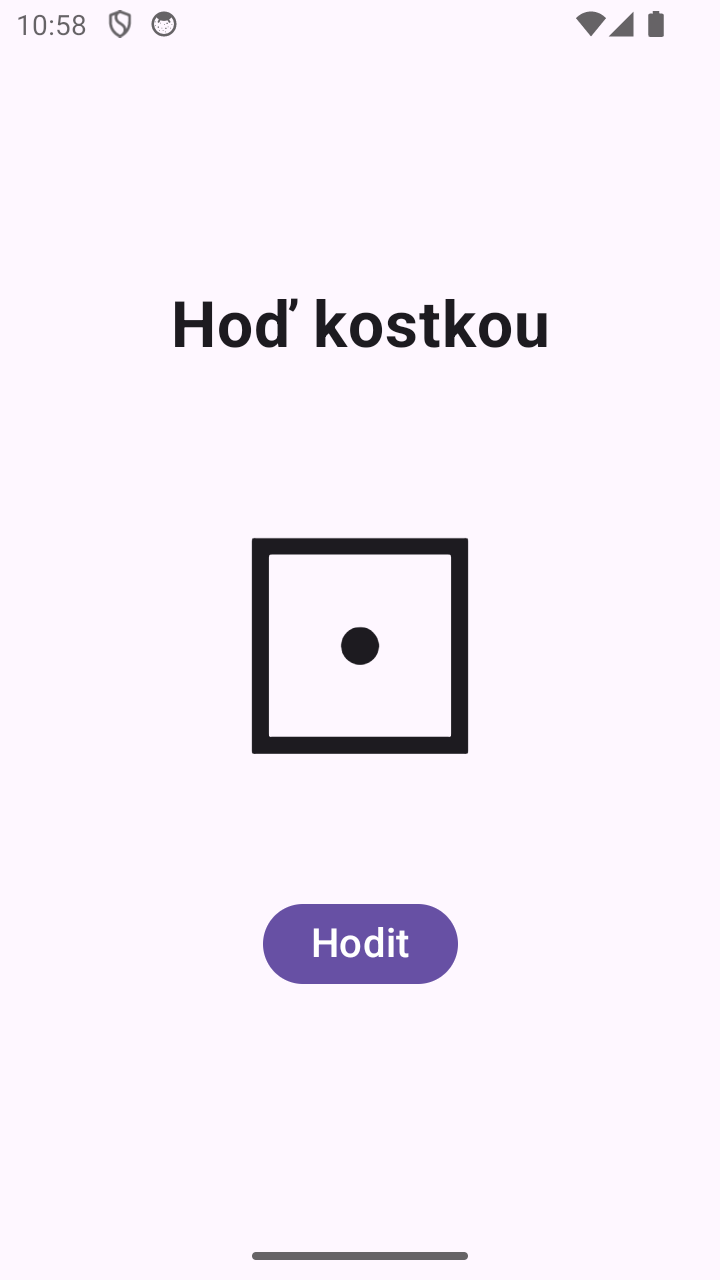
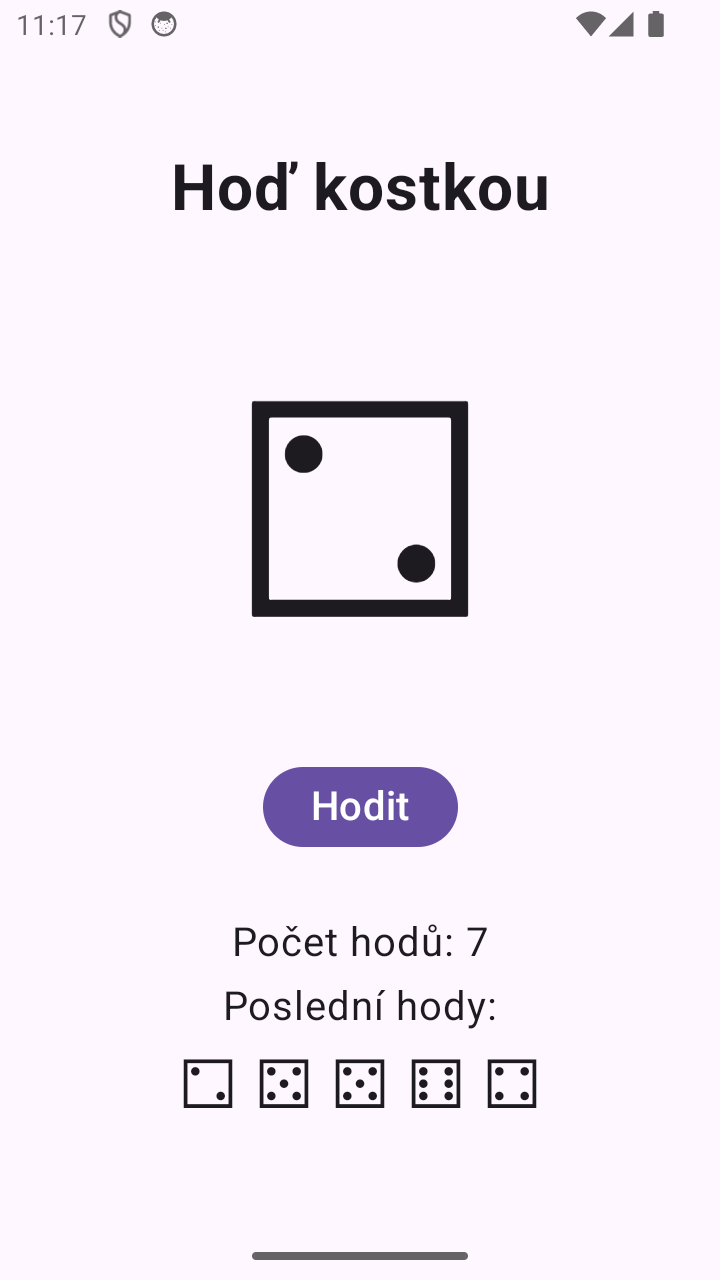
feature: addition of roll counter and history

diff --git a/MyApp003Compose/app/src/main/java/com/example/myapp003compose/MainActivity.kt b/MyApp003Compose/app/src/main/java/com/example/myapp003compose/MainActivity.kt
@@ -14,6 +14,7 @@ import androidx.compose.material3.Scaffold
 import androidx.compose.material3.Text
 import androidx.compose.runtime.Composable
 import androidx.compose.runtime.getValue
+import androidx.compose.runtime.mutableIntStateOf
 import androidx.compose.runtime.mutableStateOf
 import androidx.compose.runtime.remember
 import androidx.compose.runtime.rememberCoroutineScope
@@ -28,12 +29,15 @@ import androidx.compose.ui.unit.sp
 import kotlinx.coroutines.delay
 import kotlinx.coroutines.launch
 
-// Unicode symboly pro hodnoty kostky 1–6
+// Unicode symboly pro hodnoty kostky 1-6
 private val diceSymbols = listOf("⚀", "⚁", "⚂", "⚃", "⚄", "⚅")
 
 // Počet náhodných změn během animace a prodleva mezi nimi
 private const val ANIMATION_STEPS = 10
 private const val STEP_DELAY_MS = 250L
+
+// Kolik posledních hodů se ukazuje
+private const val HISTORY_SIZE = 5
 
 class MainActivity : ComponentActivity() {
     override fun onCreate(savedInstanceState: Bundle?) {
@@ -58,6 +62,10 @@ fun DiceScreen(modifier: Modifier = Modifier) {
     // Při změně stavu Compose obrazovku sám překreslí.
     var dice by remember { mutableStateOf(diceSymbols.first()) }
     var isRolling by remember { mutableStateOf(false) }
+
+    // Počet hodů a posledních pár výsledků (nejnovější první)
+    var rollCount by remember { mutableIntStateOf(0) }
+    var history by remember { mutableStateOf(listOf<String>()) }
     val scope = rememberCoroutineScope()
 
     // Prvky pod sebou, vystředěné na obrazovce
@@ -92,12 +100,35 @@ fun DiceScreen(modifier: Modifier = Modifier) {
                         delay(STEP_DELAY_MS)
                     }
                     dice = diceSymbols.random()
+
+                    // Výsledek se přičte a přidá na začátek historie
+                    rollCount++
+                    history = (listOf(dice) + history).take(HISTORY_SIZE)
+
                     isRolling = false
                 }
             }
         ) {
             Text(text = stringResource(R.string.roll), fontSize = 20.sp)
         }
+
+        // Počet hodů
+        Text(
+            text = stringResource(R.string.roll_count, rollCount),
+            fontSize = 20.sp,
+            modifier = Modifier.padding(top = 32.dp)
+        )
+
+        // Historie posledních hodů
+        Text(
+            text = stringResource(R.string.history),
+            fontSize = 20.sp,
+            modifier = Modifier.padding(top = 8.dp)
+        )
+        Text(
+            text = history.joinToString(" "),
+            fontSize = 36.sp
+        )
     }
 }
 

diff --git a/MyApp003Xml/app/src/main/java/com/example/myapp003xml/MainActivity.kt b/MyApp003Xml/app/src/main/java/com/example/myapp003xml/MainActivity.kt
@@ -13,7 +13,7 @@ import kotlinx.coroutines.launch
 
 class MainActivity : AppCompatActivity() {
 
-    // Unicode symboly pro hodnoty kostky 1–6
+    // Unicode symboly pro hodnoty kostky 1-6
     private val diceSymbols = listOf("⚀", "⚁", "⚂", "⚃", "⚄", "⚅")
 
     // Počet náhodných změn během animace a prodleva mezi nimi

diff --git a/MyApp003Compose/README.md b/MyApp003Compose/README.md
@@ -1,19 +1,17 @@
-# Hoď kostkou — Jetpack Compose
+# Hoď kostkou - Jetpack Compose
 
-Šablona Empty Activity, rozhraní definované v Kotlinu. Varianta v XML: [MyApp003Xml](../MyApp003Xml).
+Verze v Jetpack Compose (Empty Activity). XML verze je v [MyApp003Xml](../MyApp003Xml).
 
 ![Screenshot](screenshots/screenshot-compose.png)
 
-## Porovnání: jak se aktualizuje zobrazená kostka
+## Porovnání
 
-| | XML + Kotlin (`MyApp003Xml`) | Jetpack Compose (`MyApp003Compose`) |
-| --- | --- | --- |
-| Rozhraní | `activity_main.xml` | funkce `DiceScreen()` v Kotlinu |
-| Přístup ke kostce | `findViewById(R.id.tvDice)` | žádný, kostka je jen `Text(text = dice)` |
-| Změna kostky | kód přímo přepíše `tvDice.text = …` | kód změní stav `dice`, Compose obrazovku sám překreslí |
-| Zakázání tlačítka | `btnRoll.isEnabled = false` | `enabled = !isRolling` podle stavu |
-| Prodleva 250 ms | korutina v `lifecycleScope` s `delay()` | korutina z `rememberCoroutineScope()` s `delay()` |
+V XML verzi je kostka TextView `tvDice`, který si najdu přes `findViewById`. Při hodu ho přepisuju přímo v kódu (`tvDice.text = ...`) a tlačítko vypínám přes `btnRoll.isEnabled`.
 
-XML varianta je imperativní: kód říká, který prvek se má změnit a jak.
-Compose je deklarativní: kód popisuje, jak obrazovka vypadá pro daný stav,
-a při změně stavu se vykreslí znovu.
+V Compose verzi nic hledat nemusím. Kostka je proměnná `dice` uložená jako stav (`mutableStateOf`). Při hodu měním jen tuhle proměnnou a Compose obrazovku překreslí sám. Tlačítko má `enabled = !isRolling`, takže se vypne samo, když běží hod.
+
+Čekání 250 ms je v obou verzích přes korutinu a `delay()`, aby aplikace nezamrzla.
+
+## Vylepšení
+
+Přidal jsem počítadlo hodů a historii posledních 5 hodů. Po každém hodu se počet zvýší o 1 a výsledek se přidá na začátek historie, starší hody nad 5 se zahodí. Obojí jsou zase jen stavy (`rollCount`, `history`), takže se zobrazí samy.

diff --git a/MyApp003Xml/README.md b/MyApp003Xml/README.md
@@ -1,19 +1,13 @@
-# Hoď kostkou — XML + Kotlin
+# Hoď kostkou - XML + Kotlin
 
-Šablona Empty Views Activity, prvky přes `findViewById`. Varianta v Compose: [MyApp003Compose](../MyApp003Compose).
+Verze s XML layoutem (Empty Views Activity). Compose verze je v [MyApp003Compose](../MyApp003Compose).
 
 ![Screenshot](screenshots/screenshot-xml.png)
 
-## Porovnání: jak se aktualizuje zobrazená kostka
+## Porovnání
 
-| | XML + Kotlin (`MyApp003Xml`) | Jetpack Compose (`MyApp003Compose`) |
-| --- | --- | --- |
-| Rozhraní | `activity_main.xml` | funkce `DiceScreen()` v Kotlinu |
-| Přístup ke kostce | `findViewById(R.id.tvDice)` | žádný, kostka je jen `Text(text = dice)` |
-| Změna kostky | kód přímo přepíše `tvDice.text = …` | kód změní stav `dice`, Compose obrazovku sám překreslí |
-| Zakázání tlačítka | `btnRoll.isEnabled = false` | `enabled = !isRolling` podle stavu |
-| Prodleva 250 ms | korutina v `lifecycleScope` s `delay()` | korutina z `rememberCoroutineScope()` s `delay()` |
+V XML verzi je kostka TextView `tvDice`, který si najdu přes `findViewById`. Při hodu ho přepisuju přímo v kódu (`tvDice.text = ...`) a tlačítko vypínám přes `btnRoll.isEnabled`.
 
-XML varianta je imperativní: kód říká, který prvek se má změnit a jak.
-Compose je deklarativní: kód popisuje, jak obrazovka vypadá pro daný stav,
-a při změně stavu se vykreslí znovu.
+V Compose verzi nic hledat nemusím. Kostka je proměnná `dice` uložená jako stav (`mutableStateOf`). Při hodu měním jen tuhle proměnnou a Compose obrazovku překreslí sám. Tlačítko má `enabled = !isRolling`, takže se vypne samo, když běží hod.
+
+Čekání 250 ms je v obou verzích přes korutinu a `delay()`, aby aplikace nezamrzla.
